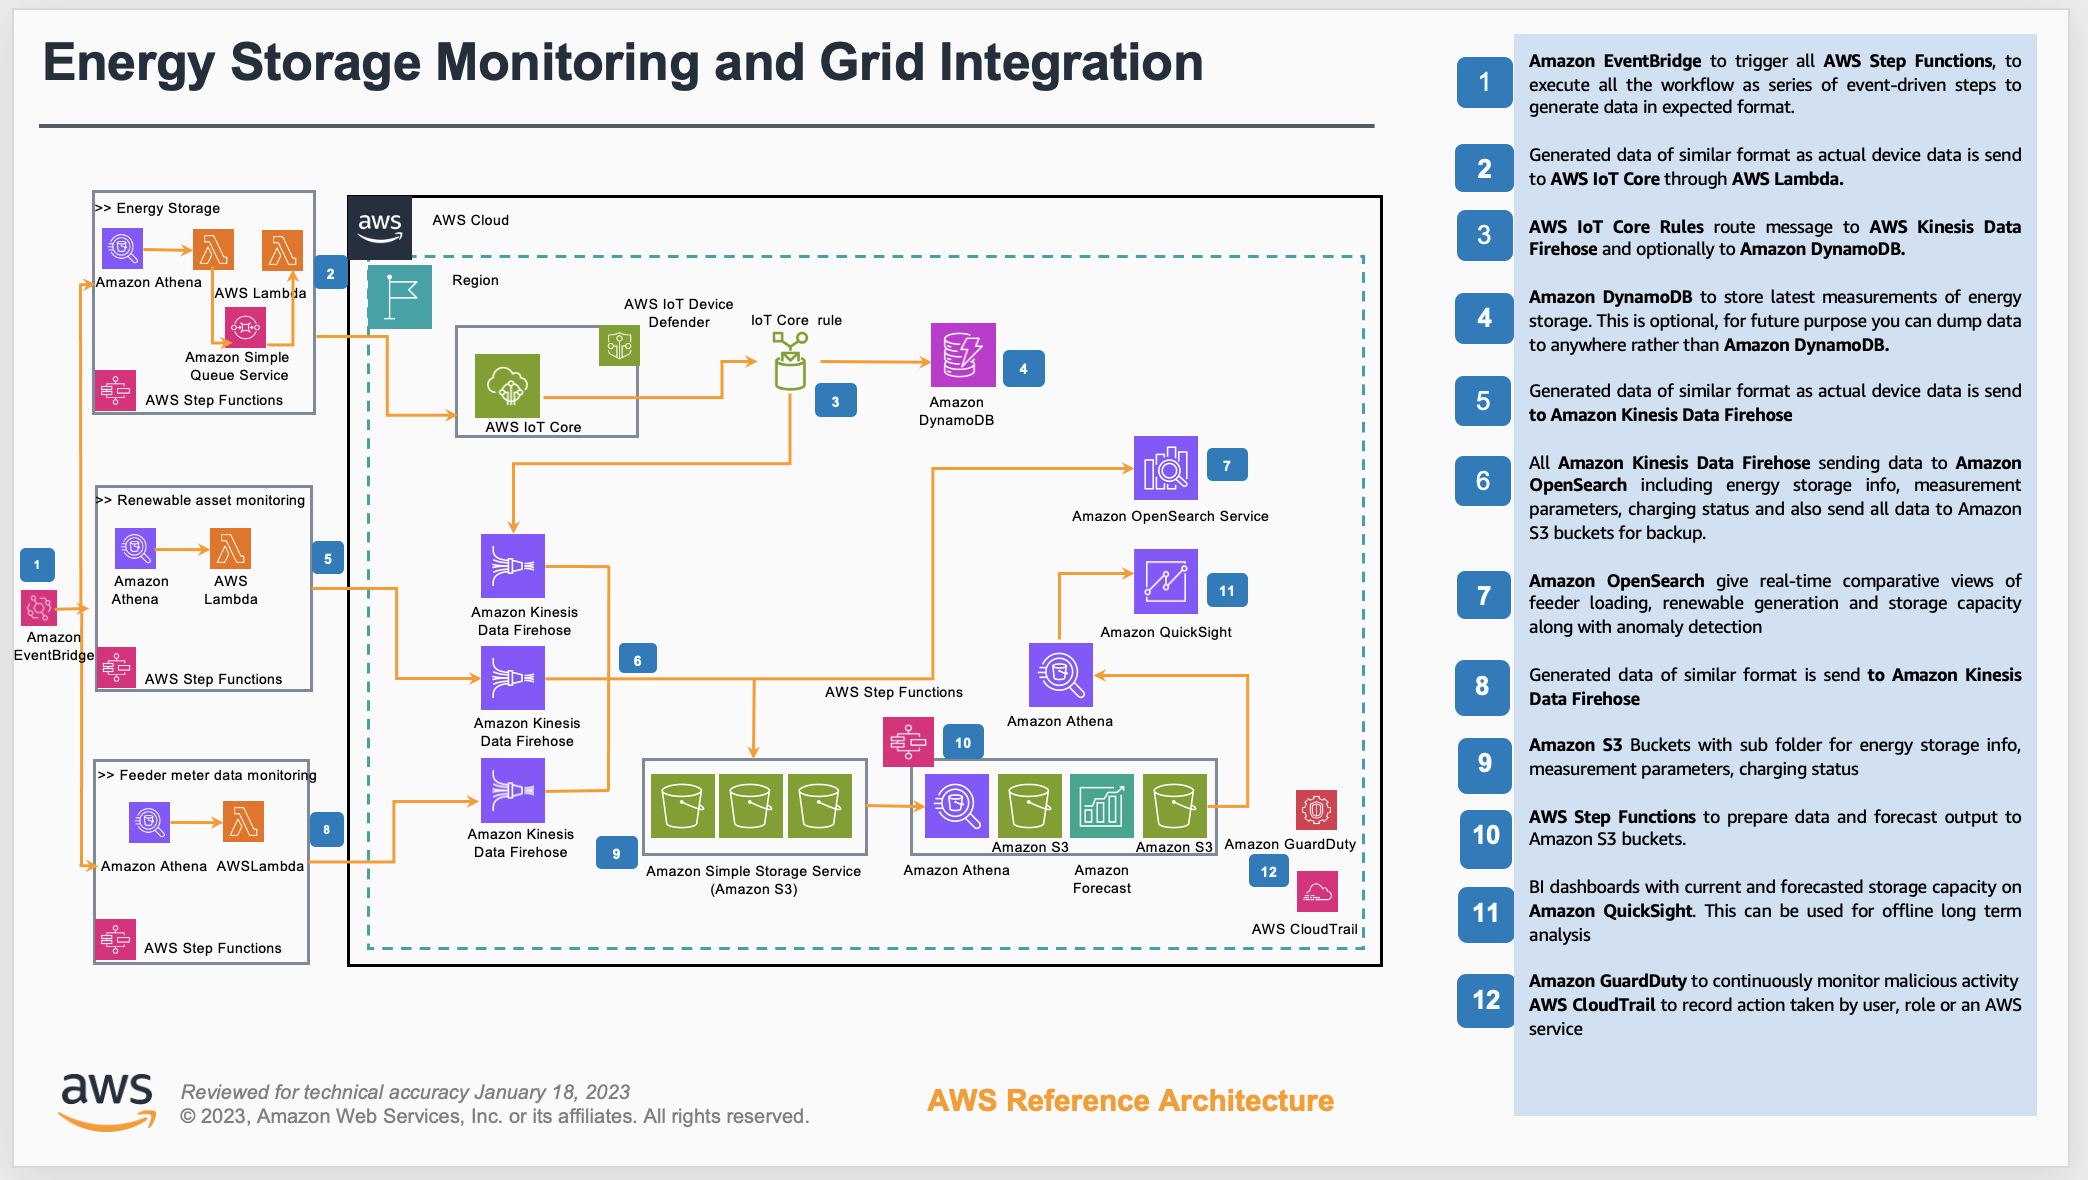
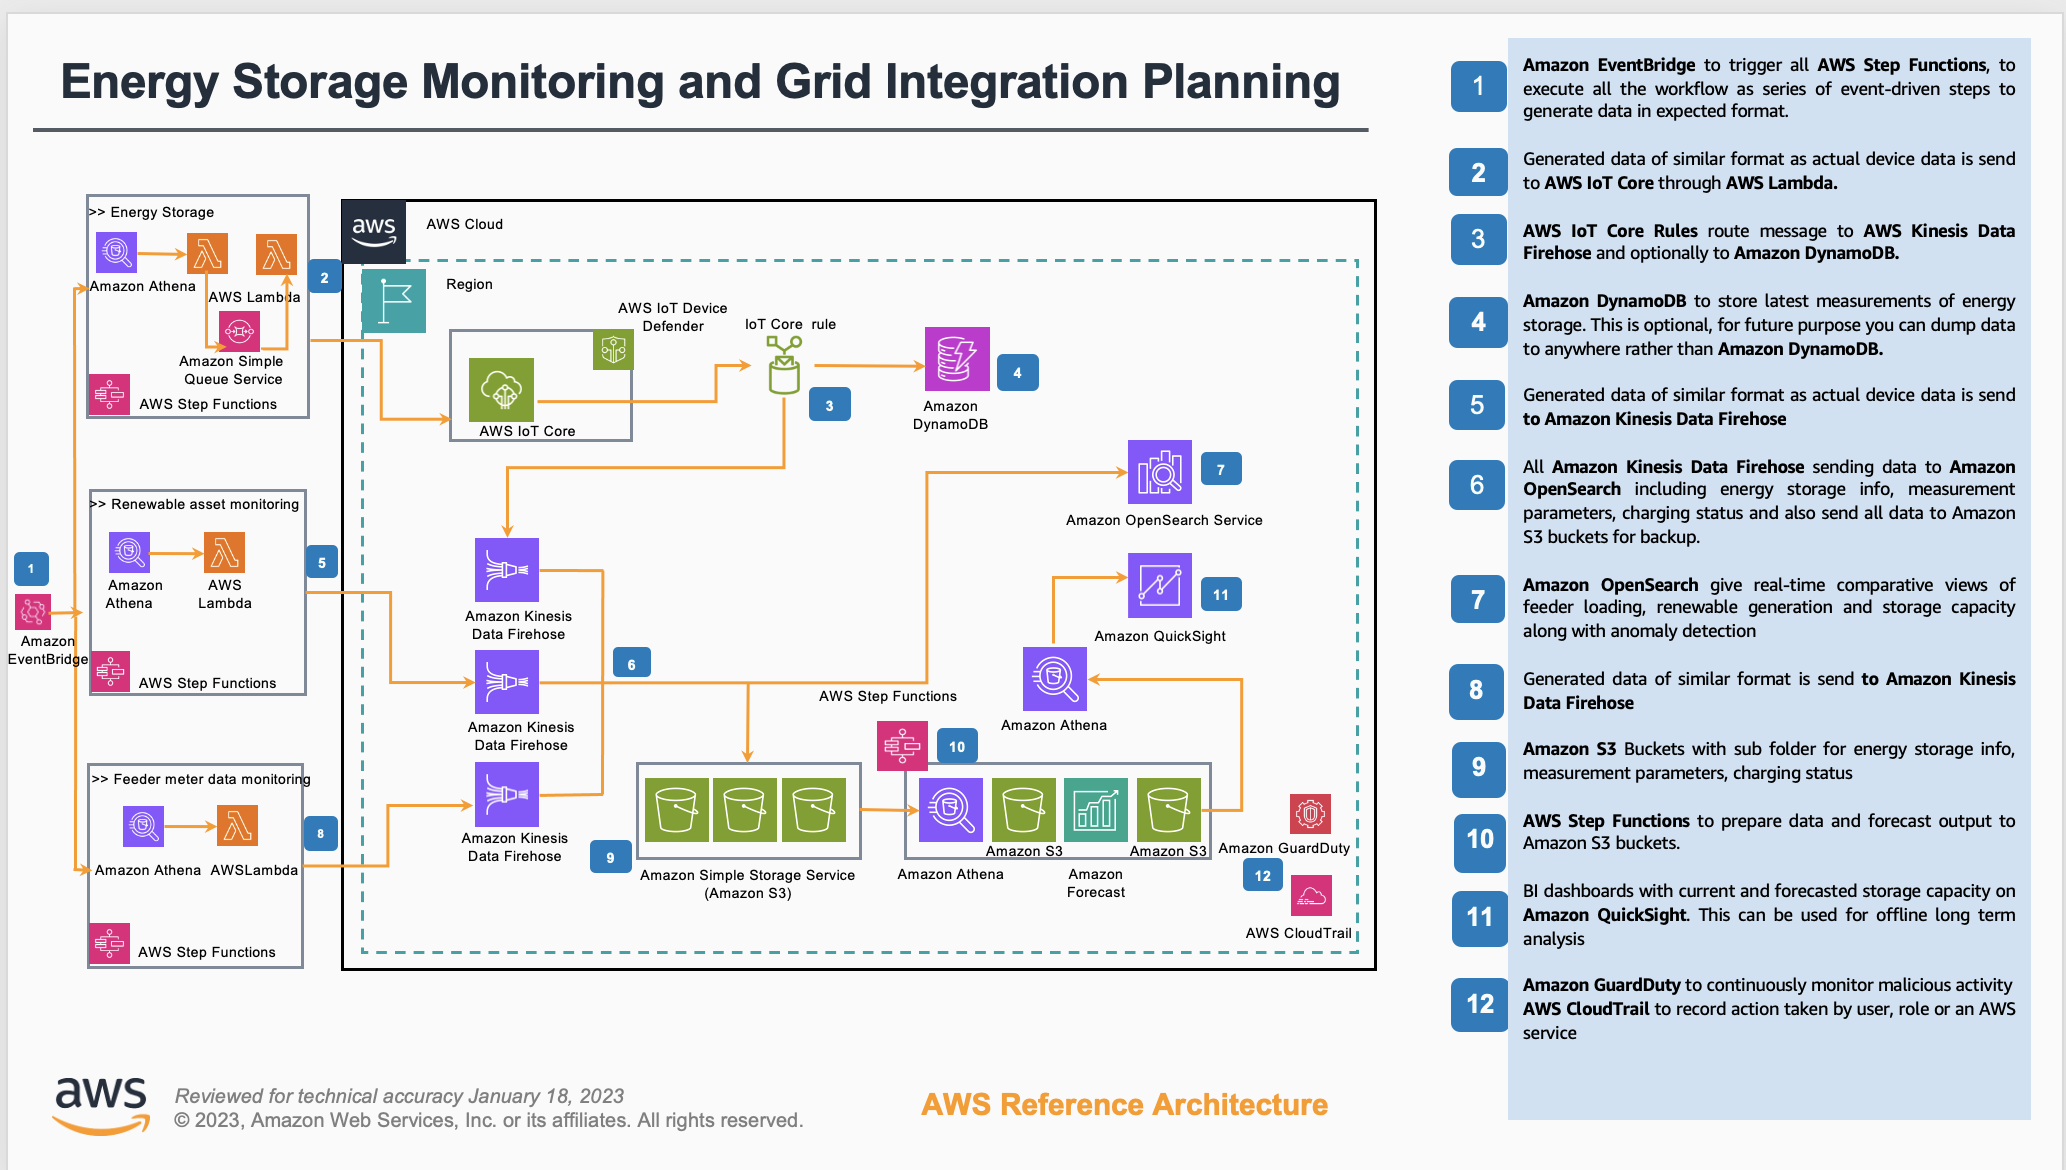
change in readme.md

Changed region(s): [[0.0, 0.0, 0.9913, 1.0], [0.0, 0.0308, 0.6505, 0.1231], [0.4337, 0.9231, 0.6505, 0.9538]]

diff --git a/README.md b/README.md
@@ -8,7 +8,7 @@
 
 ## Project overview
 
-This solution is to maximize grid benefits with Energy storage and Grid integration. Project focus on energy storage monitoring, which is an emerging area within the power industry. Using Energy Storage helps us to add more renewable energy to our power grid. If we can see how much energy we have stored, how much renewable energy we are making, and how fulls power lines are, it helps the companies that provide our electricity make better plans for using renewable energy.
+This solution is to maximize grid benefits with Energy storage and Grid integration Planning. Project focus on energy storage monitoring, which is an emerging area within the power industry. Using Energy Storage helps us to add more renewable energy to our power grid. If we can see how much energy we have stored, how much renewable energy we are making, and how fulls power lines are, it helps the companies that provide our electricity make better plans for using renewable energy.
 Actual data will flow from various sources, including batteries, wind turbine, solar panels and meter.
 
 ## Prerequisite to deploy the template
